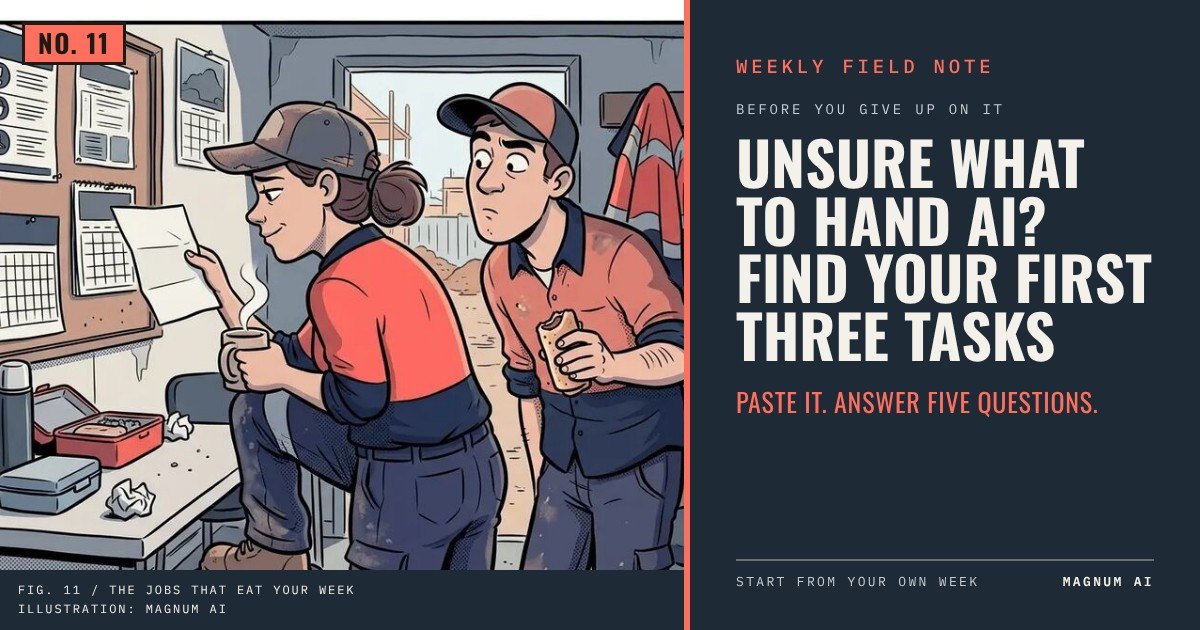
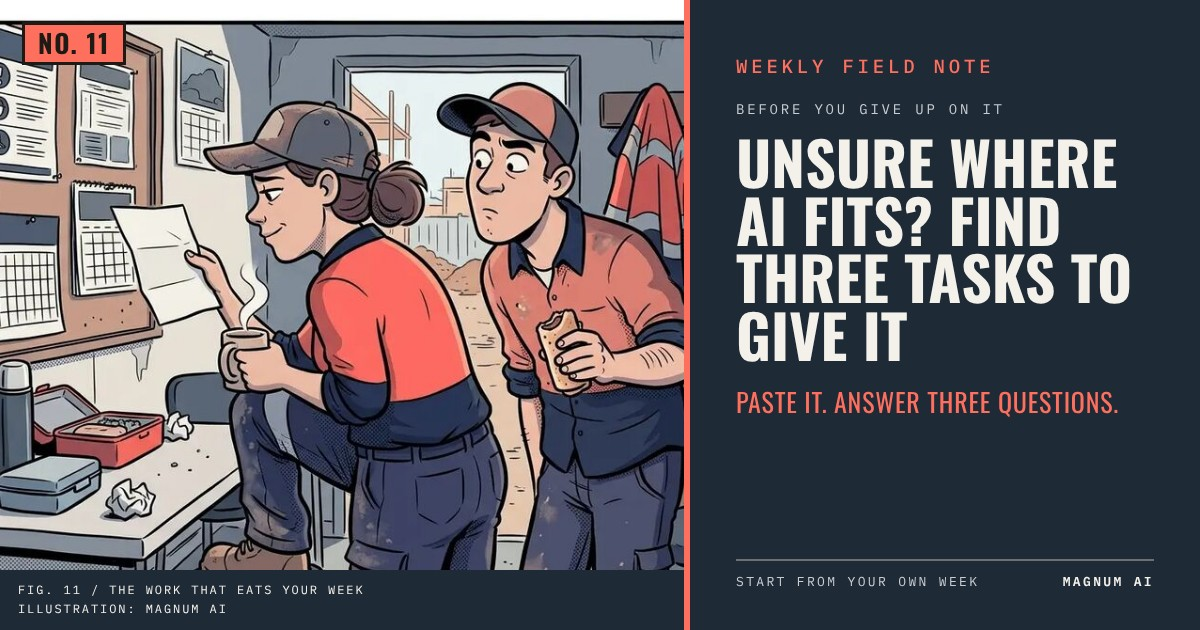
Field Note 11: value test rounds 2 and 3 fixes
Claude-Session: https://claude.ai/code/session_01Vds57XnCo61nati2knL3zK

Changed region(s): [[0.6167, 0.2111, 0.9558, 0.573], [0.7708, 0.6032, 0.925, 0.6635], [0.2467, 0.9048, 0.2775, 0.9651]]

diff --git a/newsletter/field-note-11-starting.html b/newsletter/field-note-11-starting.html
@@ -15,15 +15,15 @@
 <!-- Social preview · what clients see when this link is shared -->
 <meta property="og:type" content="article">
 <meta property="og:site_name" content="Magnum AI · Weekly Field Note">
-<meta property="og:title" content="Weekly Field Note No. 11 · Unsure what to hand AI? Find your first three tasks">
+<meta property="og:title" content="Weekly Field Note No. 11 · Unsure where AI fits? Find three tasks to give it">
 <meta property="og:description" content="A copy-and-paste prompt that interviews you about your week, then finds the three tasks AI can take off your hands first.">
 <meta property="og:url" content="https://webes77.github.io/magnum-guides/newsletter/field-note-11-starting.html">
 <meta property="og:image" content="https://webes77.github.io/magnum-guides/assets/thumbnails/field-note-11-starting.jpg">
 <meta property="og:image:width" content="1200">
 <meta property="og:image:height" content="630">
-<meta property="og:image:alt" content="Weekly Field Note No. 11 · Unsure what to hand AI? Find your first three tasks, published by Magnum AI">
+<meta property="og:image:alt" content="Weekly Field Note No. 11 · Unsure where AI fits? Find three tasks to give it, published by Magnum AI">
 <meta name="twitter:card" content="summary_large_image">
-<meta name="twitter:title" content="Weekly Field Note No. 11 · Unsure what to hand AI? Find your first three tasks">
+<meta name="twitter:title" content="Weekly Field Note No. 11 · Unsure where AI fits? Find three tasks to give it">
 <meta name="twitter:description" content="A copy-and-paste prompt that interviews you about your week, then finds the three tasks AI can take off your hands first.">
 <meta name="twitter:image" content="https://webes77.github.io/magnum-guides/assets/thumbnails/field-note-11-starting.jpg">
 <meta name="theme-color" content="#1F2A37">
@@ -115,7 +115,7 @@ body{background:#1F2A37;font-family:var(--sans);color:var(--body);
 </nav>
 
 <main class="note">
-  <h1>Unsure what to hand AI? <em>Find your first three tasks</em></h1>
+  <h1>Unsure where AI fits? <em>Find three tasks to give it</em></h1>
 
   <dl class="three">
     <div>
@@ -124,7 +124,7 @@ body{background:#1F2A37;font-family:var(--sans);color:var(--body);
     </div>
     <div>
       <dt>What you get</dt>
-      <dd>Three tasks from your own week that AI can take off you, like price replies or chasing paperwork. Then it does the first one with you.</dd>
+      <dd>Three tasks from your own week that AI can take off you, like price replies, reminder texts or chasing client paperwork. Then it does the first one with you.</dd>
     </div>
     <div>
       <dt>What you do</dt>
@@ -132,7 +132,7 @@ body{background:#1F2A37;font-family:var(--sans);color:var(--body);
         <ol class="steps">
           <li>Copy the prompt. There is nothing to fill in, it asks you.</li>
           <li>Open Claude or ChatGPT, start a new chat and paste it.</li>
-          <li>Answer its five questions with real examples from last week, then pick a task. About ten minutes.</li>
+          <li>Answer its three questions, by voice if typing is slow, then pick a task. About ten minutes.</li>
         </ol>
       </dd>
     </div>
@@ -142,20 +142,19 @@ body{background:#1F2A37;font-family:var(--sans);color:var(--body);
     <div class="phead"><b>The prompt</b><button class="copy" type="button" data-copy>Copy</button></div>
     <pre>You are a practical business coach for small Australian businesses. You help owners find where AI saves them time by starting from their own week, not from the tools.
 
-I'm not sure where AI fits my week. Interview me one question at a time, and wait for each answer:
+I'm not sure where AI fits my week. Ask me these three questions, one at a time, and wait for each answer:
 1. What does my business do, and who for?
 2. Which tasks do I do every week in roughly the same way, and about how long does each one take?
-3. Which tasks do I put off because they're tedious or I dread them?
-4. If someone capable took some work off me, what would I do with five more hours a week?
-5. What's one thing I've never done for the business but know I should?
+3. Which tasks do I put off because they're tedious or I dread them, and how long do they take when I finally do them?
 If an answer is vague or could fit any business like mine, ask once for a real example from last week.
 
-Then sort what I told you into four groups: tasks I repeat, tasks I dread, tasks I wish I had time for, and firsts. Pick the three tasks where AI would save me the most time this month, best first.
+Then pick the three tasks where AI would save me the most time this month, best first, ranked on how often each one comes up and the time I gave you. Don't show me your working, just the three.
 
 The rules, and why each one is there:
 - Only pick tasks you can do from what I type or paste into this chat, like writing, replying, summarising or checking. Don't assume you can get into my booking, accounting or email software, because a task you can't actually do wastes my first try.
-- Use only what I told you. If you guess my hours or my numbers, I plan around something that isn't real.
+- Use only what I told you. If I didn't say how long something takes, write "you didn't say" and don't estimate, because I'd plan around a number that isn't real.
 - Don't pick a task where AI sends something to a customer or moves money without me checking it first, because one wrong email or payment costs more than the time it saves.
+- If a task involves figures, tell me to re-check every number before it goes anywhere.
 - If a task means pasting in customer details, tell me what to take out first, like names, tax file numbers or account numbers.
 
 Be plain, warm and specific. No jargon, no hype.

diff --git a/newsletter/index.html b/newsletter/index.html
@@ -140,12 +140,12 @@ footer b{color:var(--paper);font-weight:500}
     <div class="grid">
 
       <a class="card" href="field-note-11-starting.html">
-        <img src="../assets/thumbnails/field-note-11-starting.jpg" alt="Weekly Field Note No. 11 · Unsure what to hand AI? Find your first three tasks" width="1200" height="630" loading="lazy">
+        <img src="../assets/thumbnails/field-note-11-starting.jpg" alt="Weekly Field Note No. 11 · Unsure where AI fits? Find three tasks to give it" width="1200" height="630" loading="lazy">
         <div class="inner">
           <div class="date">No. 11</div>
           <h3>Starting</h3>
           <div class="meta">Practical AI &middot; Ten minutes</div>
-          <p>Unsure what to hand AI? Find your first three tasks. A copy-and-paste prompt that interviews you about your week, then finds the three tasks AI can take off your hands first.</p>
+          <p>Unsure where AI fits? Find three tasks to give it. A copy-and-paste prompt that interviews you about your week, then finds the three tasks AI can take off your hands first.</p>
           <span class="go">Read this issue &rarr;</span>
         </div>
       </a>

diff --git a/index.html b/index.html
@@ -257,10 +257,10 @@ footer b{color:var(--paper);font-weight:500}
     <div class="grid">
 
       <a class="card thumb" href="newsletter/field-note-11-starting.html">
-        <img src="assets/thumbnails/field-note-11-starting.jpg" alt="Weekly Field Note No. 11 · Unsure what to hand AI? Find your first three tasks" width="1200" height="630" loading="lazy">
+        <img src="assets/thumbnails/field-note-11-starting.jpg" alt="Weekly Field Note No. 11 · Unsure where AI fits? Find three tasks to give it" width="1200" height="630" loading="lazy">
         <div class="inner">
           <div class="date">Field Note No. 11</div>
-          <h3>Unsure what to hand AI? Find your first three tasks</h3>
+          <h3>Unsure where AI fits? Find three tasks to give it</h3>
           <div class="meta">Weekly Field Note &middot; Starting &middot; Ten minutes</div>
           <p>A copy-and-paste prompt that interviews you about your week, then finds the three tasks AI can take off your hands first.</p>
           <span class="go">Read this issue &rarr;</span>

diff --git a/newsletter/field-note-11-thumbnail.html b/newsletter/field-note-11-thumbnail.html
@@ -64,8 +64,8 @@ h1{font-family:'Oswald','Arial Narrow','Liberation Sans Narrow',sans-serif;font-
   <div class="panel">
     <div class="k">Weekly Field Note</div>
     <div class="eyebrow">Before you give up on it</div>
-    <h1>Unsure what to hand AI? Find your first three tasks</h1>
-    <div class="kicker">Paste it. Answer five questions.</div>
+    <h1>Unsure where AI fits? Find three tasks to give it</h1>
+    <div class="kicker">Paste it. Answer three questions.</div>
     <div class="foot">
       <span>Start from your own week</span>
       <b>Magnum AI</b>
